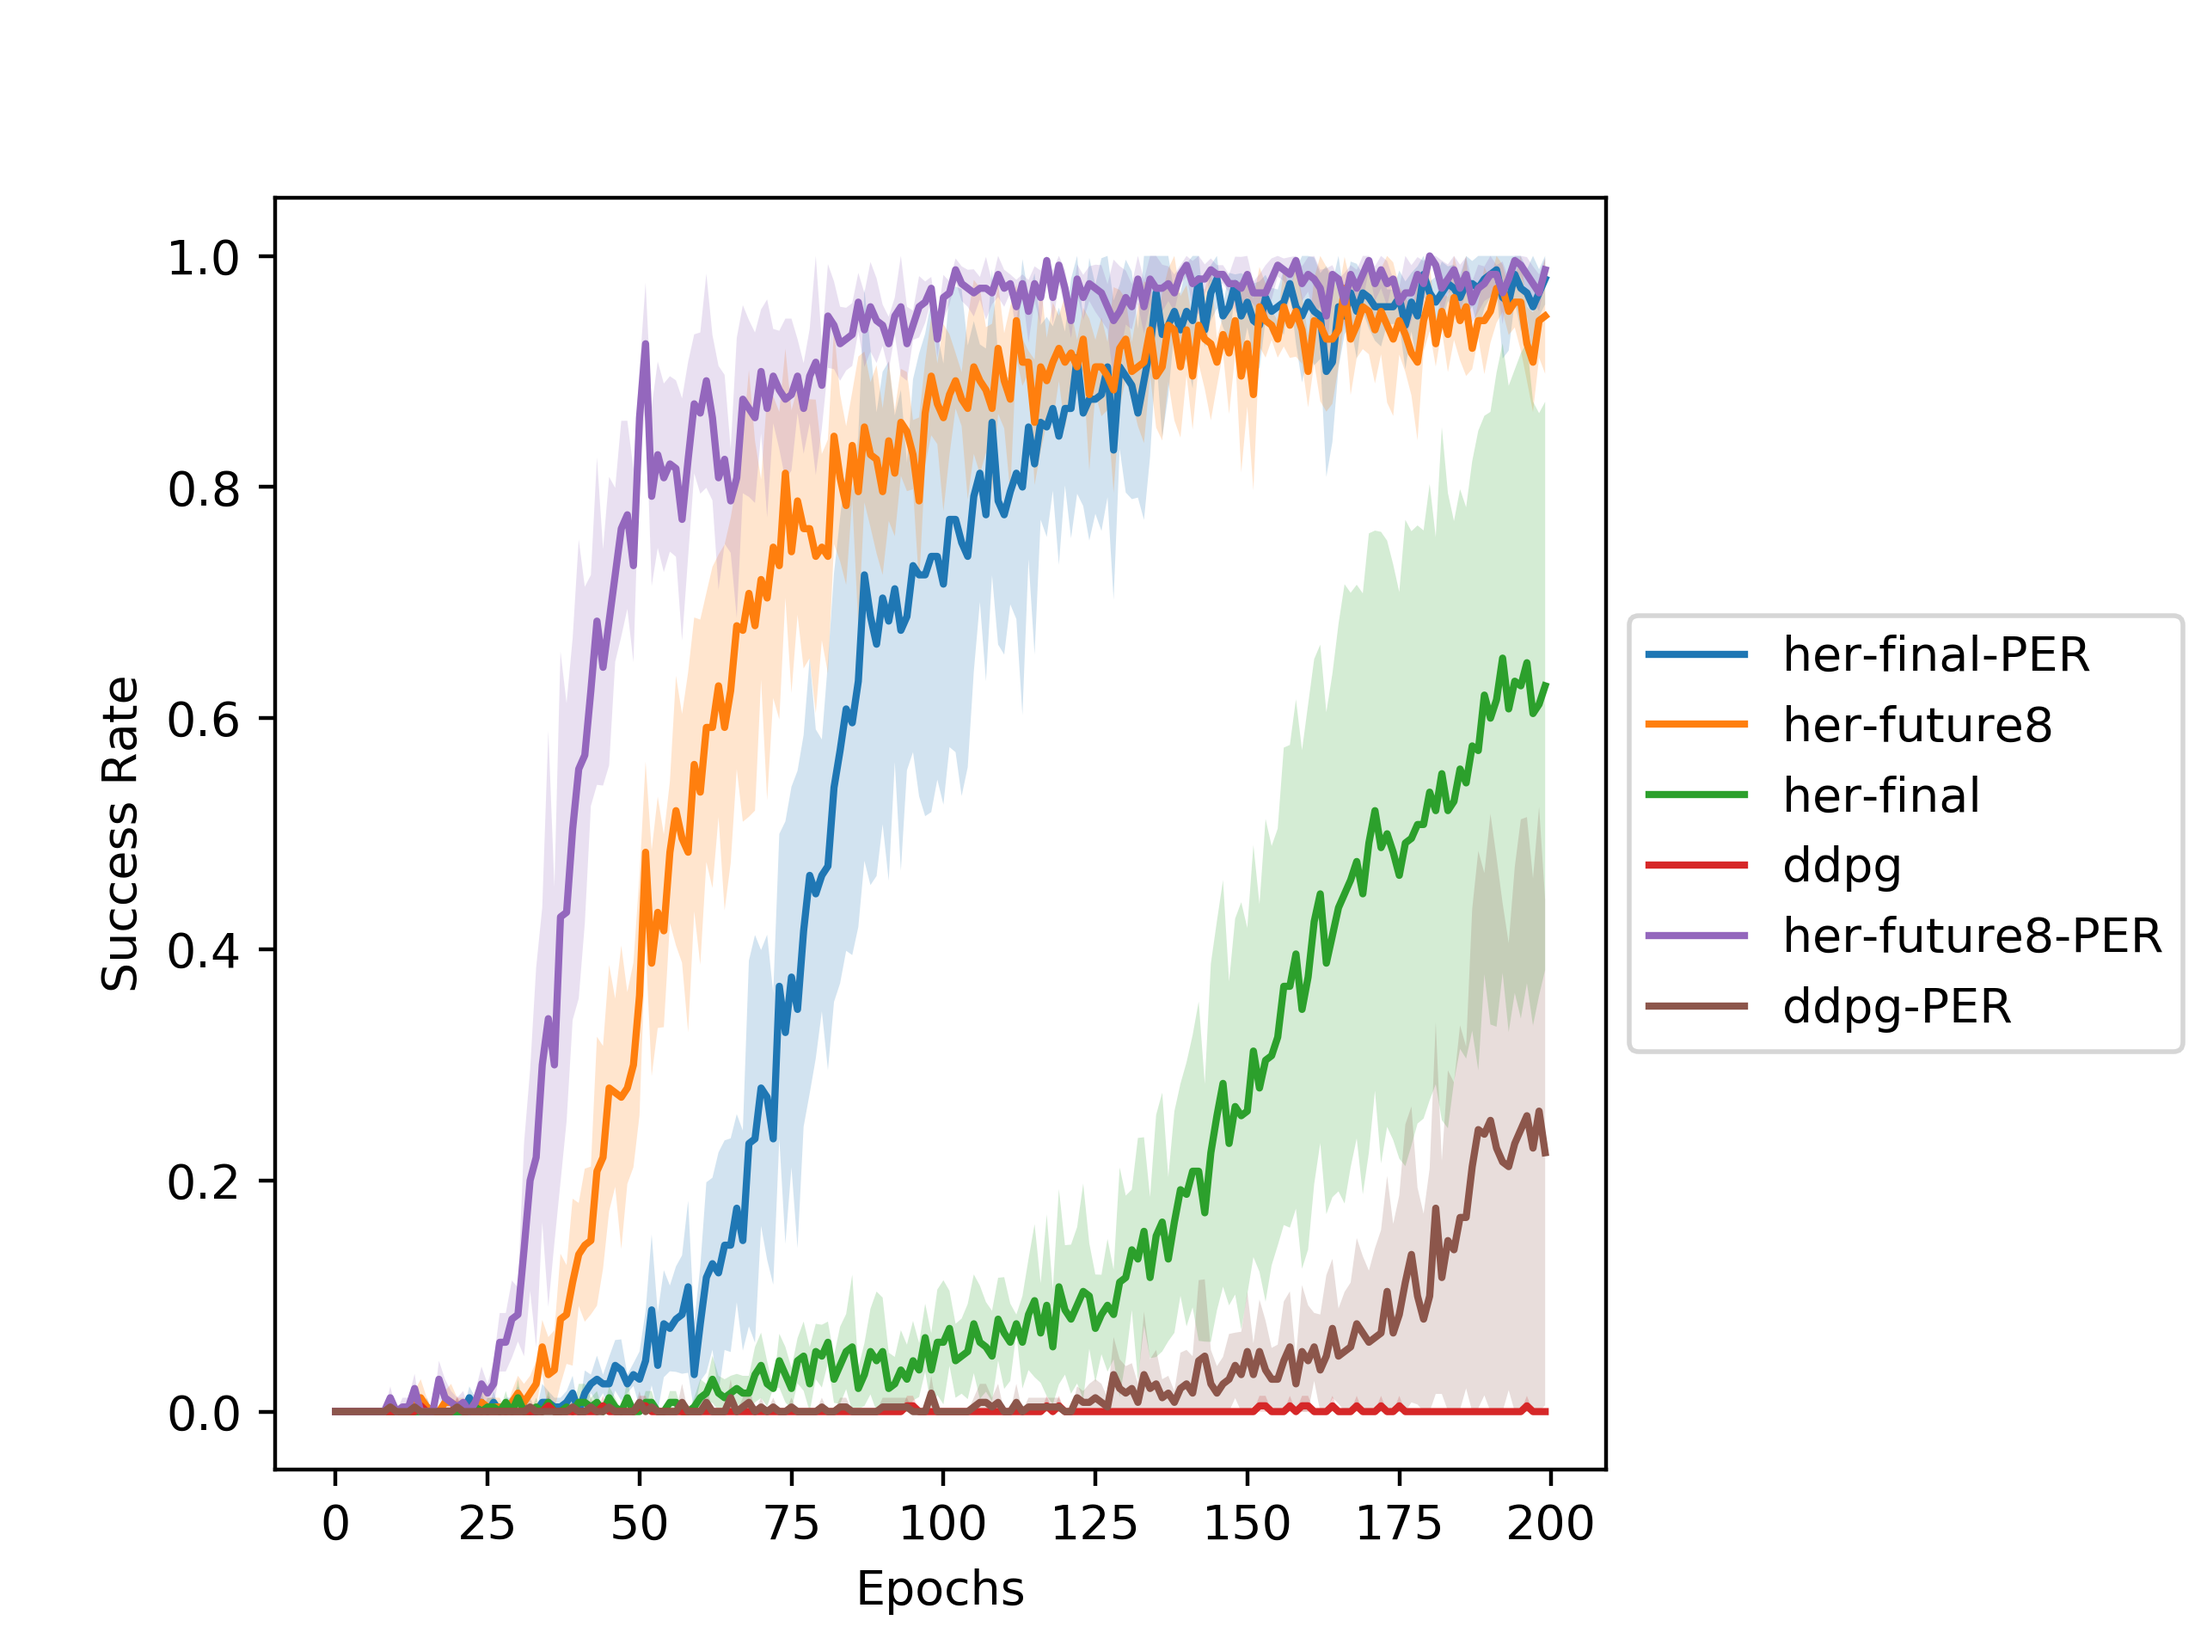
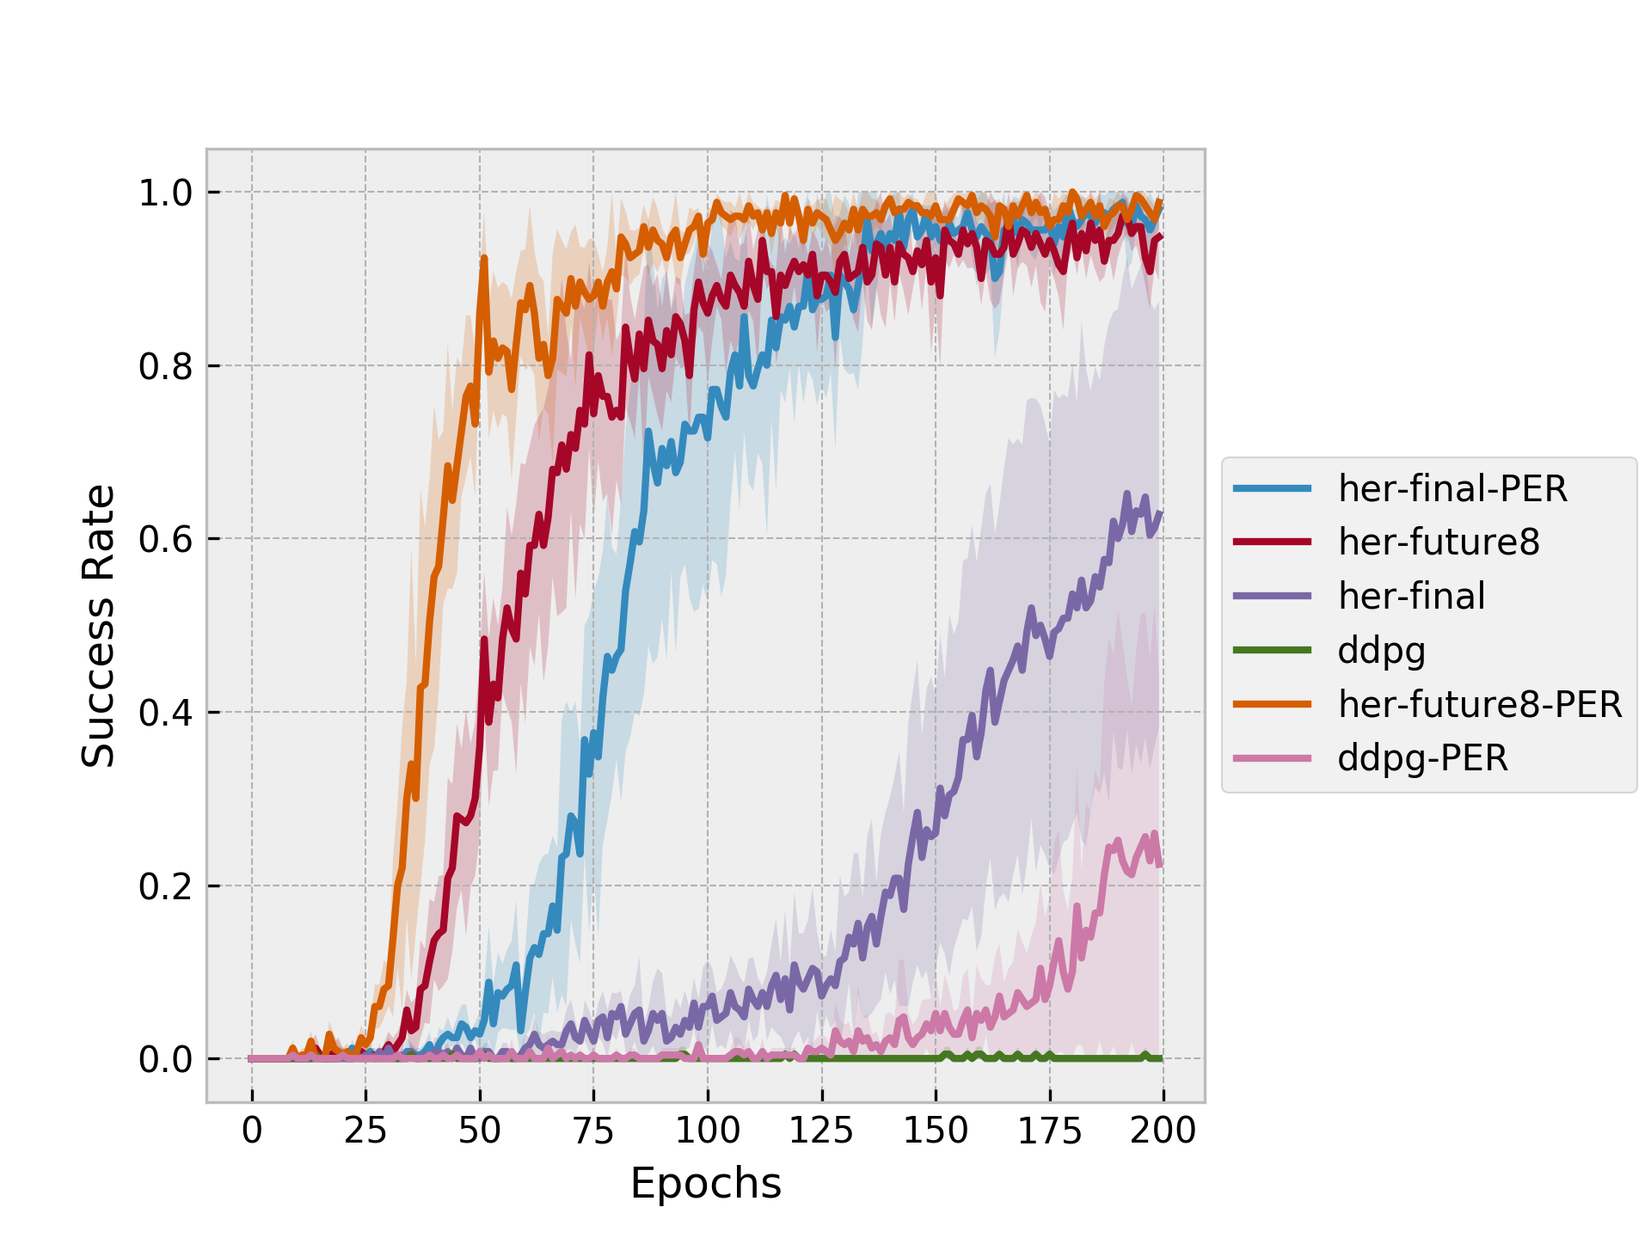
plots update

diff --git a/plot_gen/multi_plot_gen.py b/plot_gen/multi_plot_gen.py
@@ -3,6 +3,8 @@ from collections import defaultdict
 import os
 import matplotlib.pyplot as plt
 
+from matplotlib import rc
+
 """Utility script for generating plots with multiple data-series of 
 success_rates for model comparisons.
 
@@ -18,6 +20,8 @@ Should be run with the plot_gen folder as the CWD
 
 
 def generate_avg_plot():
+    plt.style.use('bmh')
+
     path = "success_rate_files/"
     filenames = [name for name in os.listdir(path)
                  if os.path.isfile(path + name)]
@@ -35,11 +39,11 @@ def generate_avg_plot():
                 serie.append(float(line.strip()))
         data[model_name].append(serie)
 
-    fig = plt.figure(dpi=400)
+    fig = plt.figure(dpi=300)
     # I comment these 3 lines when generating plot for fetchreach.
-    ax = plt.subplot(111)
-    box = ax.get_position()
-    ax.set_position([box.x0, box.y0, box.width * 0.78, box.height])
+    # ax = plt.subplot(111)
+    # box = ax.get_position()
+    # ax.set_position([box.x0, box.y0, box.width * 0.78, box.height])
 
     for model_name, s_rates in data.items():
         success_rates = np.array(s_rates)
@@ -58,9 +62,9 @@ def generate_avg_plot():
     plt.xlabel("Epochs")
     plt.ylabel("Success Rate")
     # I use the plt.legend() line when generating plot for fetchreach
-    ax.legend(loc='center left', bbox_to_anchor=(1, 0.5))
-    # plt.legend()
-    plt.savefig('multi_output_plot.png', dpi=400)
+    # ax.legend(loc='center left', bbox_to_anchor=(1, 0.5))
+    plt.legend()
+    plt.savefig('multi_output_plot.png', dpi=300)
     plt.close()
 
 
